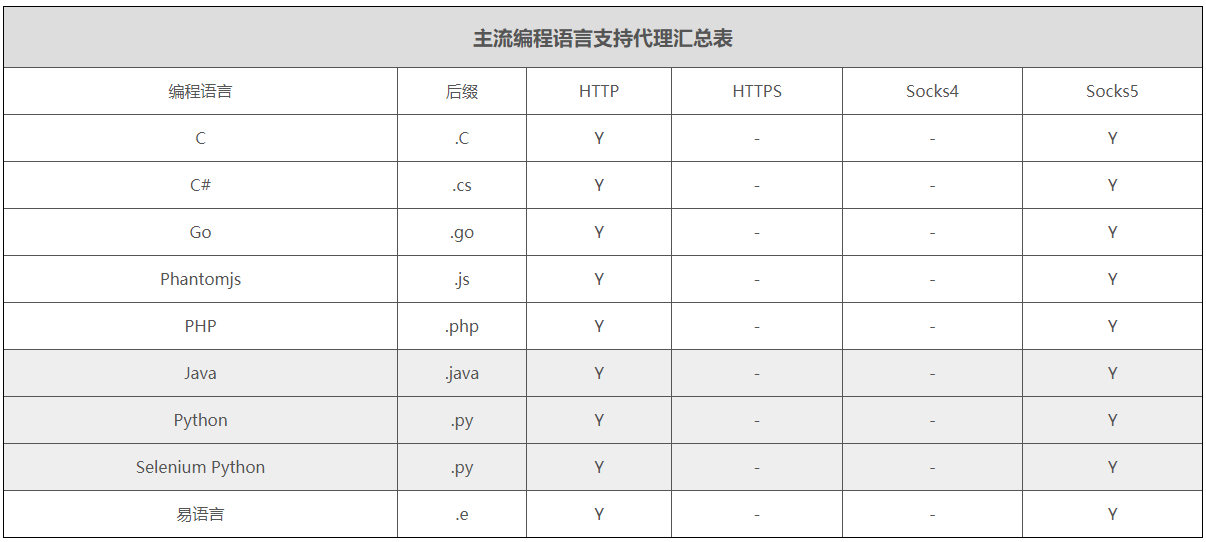
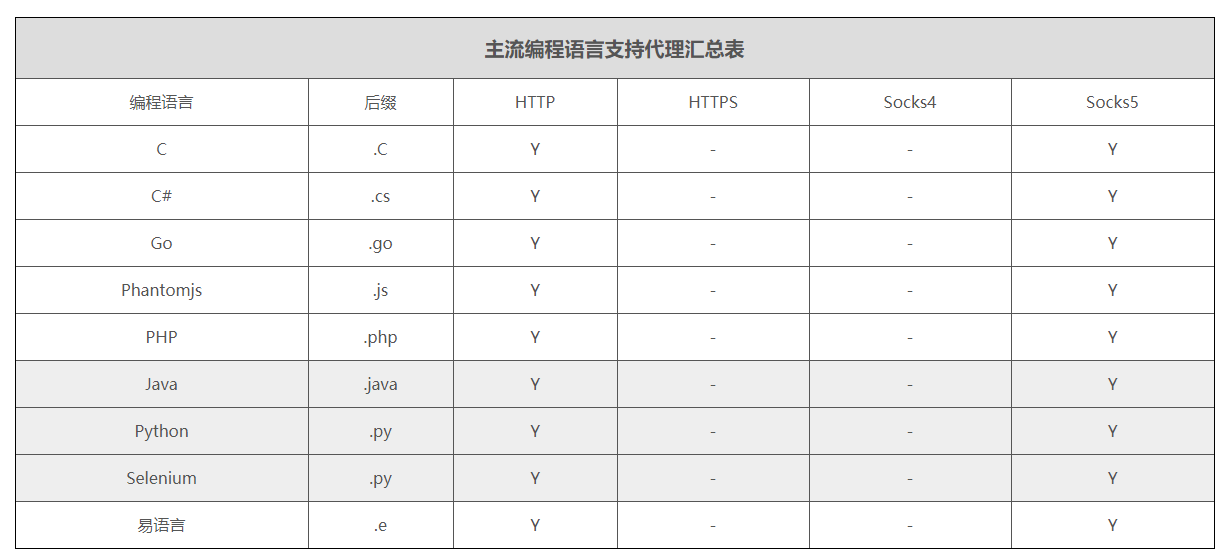
首次push

diff --git a/index.html b/index.html
@@ -225,7 +225,7 @@ input:checked + label {
                 <td class="demo-td-highlight">Y</td>
             </tr>
             <tr style="background-color: #eee;">
-                <td class="demo-demo-lang demo-td-highlight">Selenium Python</td>
+                <td class="demo-demo-lang demo-td-highlight">Selenium</td>
                 <td class="demo-demo-suffix">.py</td>
                 <td class="demo-td-highlight">Y</td>
                 <td class="demo-td-highlight">-</td>
